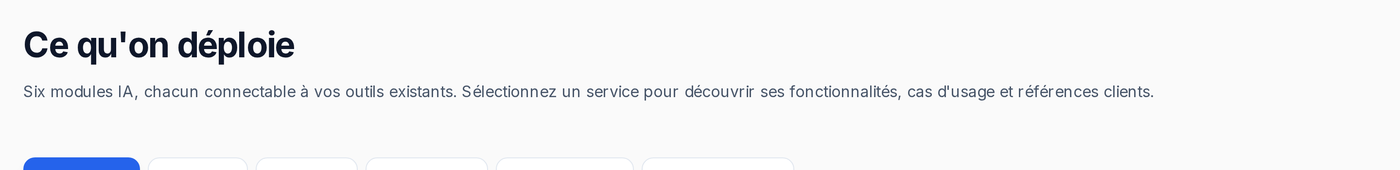
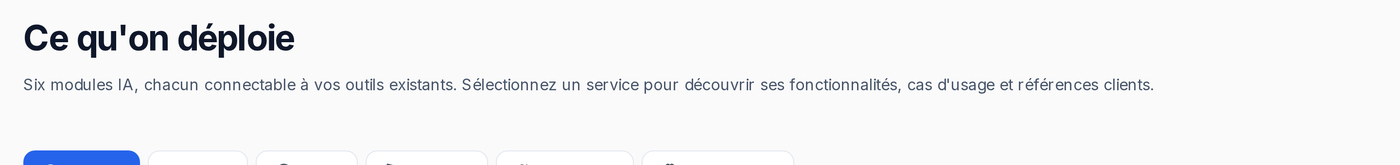
fix(exploded): les six bandes sont calees sur le premier texte de leur section
Detection automatique de la premiere ligne de texte de chaque section (scan de luminance)
puis recadrage 24 px au-dessus. Les trois bandes qui ne montraient qu un aplat blanc
(Resultats, Preuves, Conversion) portent maintenant 3,2 a 5,4 % de texte.

Changed region(s): [[0.0, 0.4848, 0.8293, 0.5758], [0.0, 0.1515, 0.215, 0.3636], [0.0, 0.9091, 0.1229, 0.9394]]

diff --git a/src/shots.js b/src/shots.js
@@ -10,8 +10,8 @@ export const DIM={
   mfa_desktop:[1920,1200], services_desktop:[1920,1200], pricing_desktop:[1920,1200],
   formation_desktop:[1920,1200], references_desktop:[1920,1200], casusage_desktop:[1920,1200],
   conseil_desktop:[1920,1200], contact_desktop:[1920,1200],
-  band_nav:[1400,74], band_hero:[1400,170], band_results:[1400,170], band_services:[1400,170],
-  band_why:[1400,170], band_cta:[1400,170], mfa_proof:[1400,885],
+  band_nav:[1400,74], band_hero:[1400,165], band_results:[1400,165], band_services:[1400,165],
+  band_why:[1400,165], band_cta:[1400,165], mfa_proof:[1400,885],
   home_nav:[1500,78], home_hero:[1500,1183], home_results:[1500,868], home_services:[1500,1080],
   home_why:[1500,1394], home_cta:[1500,514], stats_band:[1800,244],
   tab_Chatbot:[1500,1080], tab_Email:[1500,1066], tab_Veille:[1500,1066],
